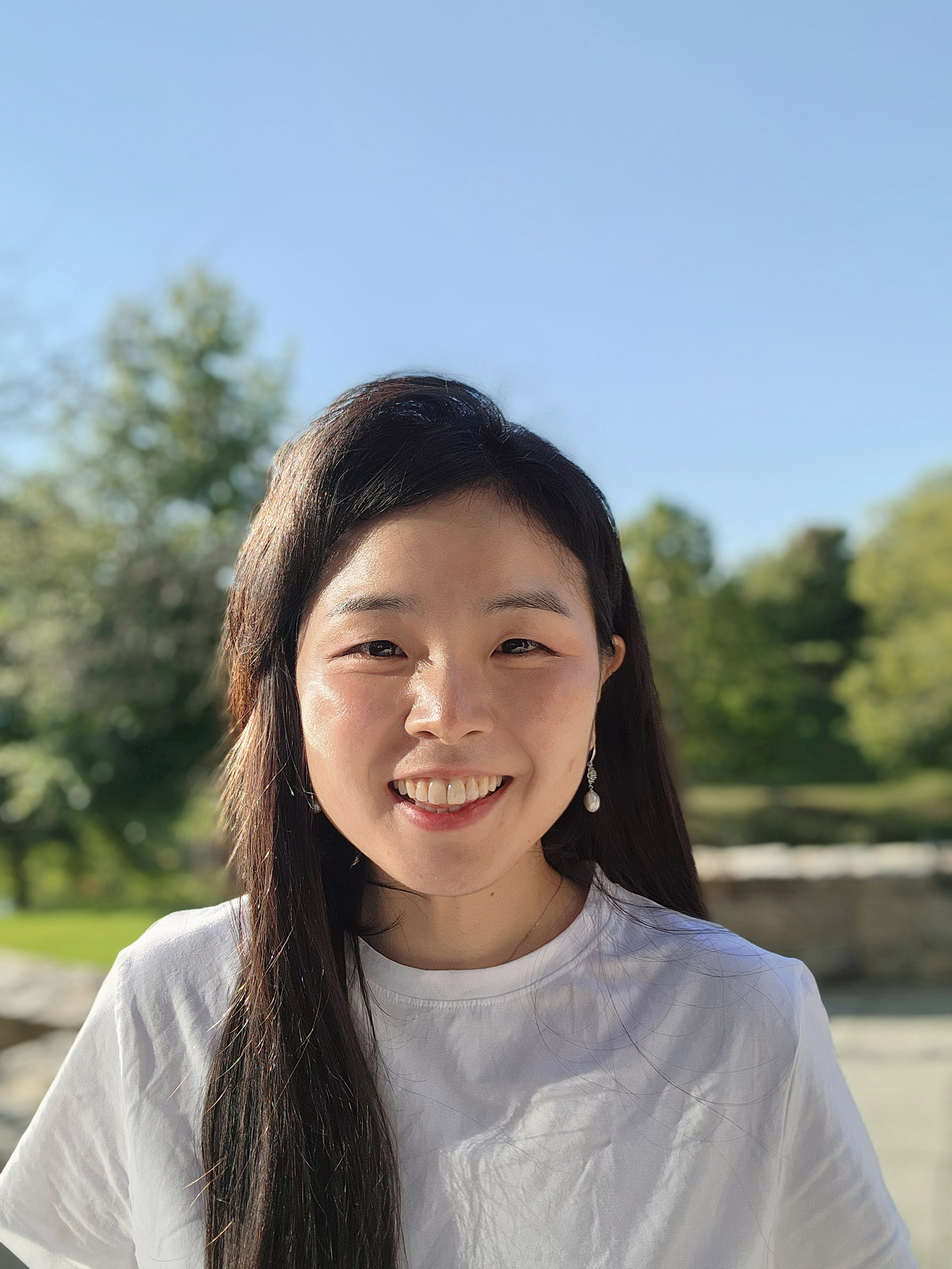
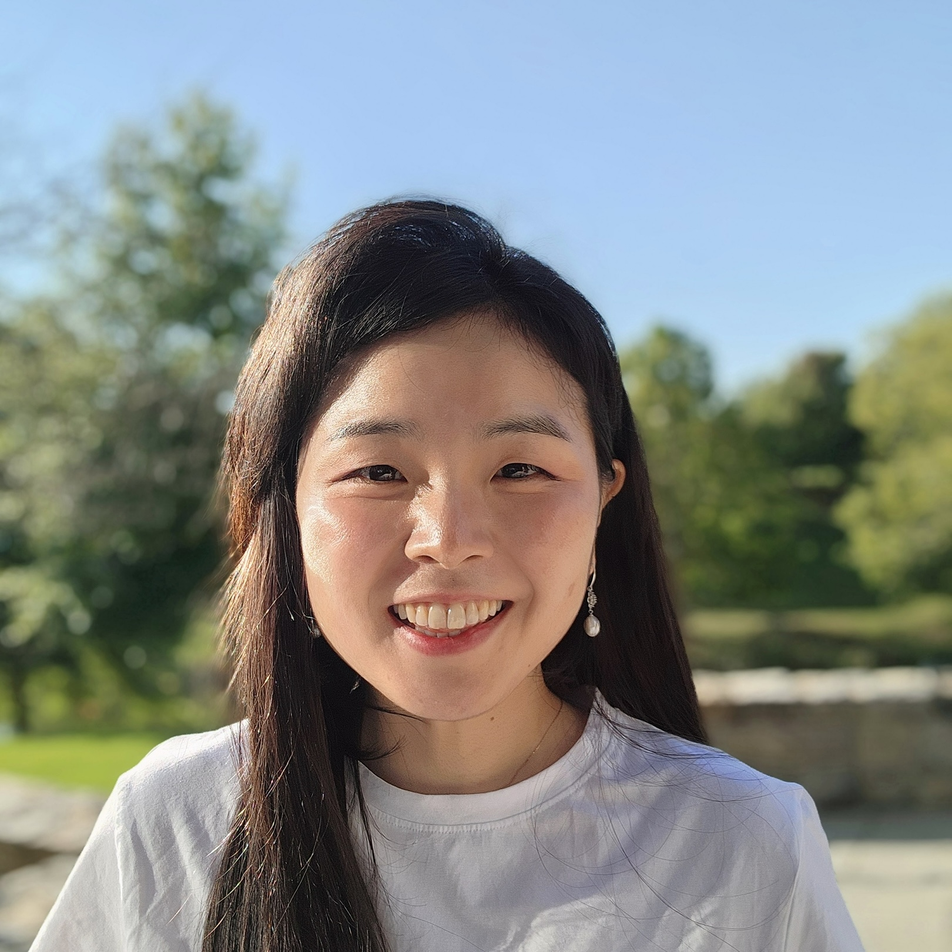
cropping profile picture square for aspect ratio contraints

diff --git a/_pages/home.md b/_pages/home.md
@@ -13,7 +13,7 @@ scholar_userid: jFXHPvoAAAAJ
 
 <div class='rho-profile-header'>
     <div class='rho-profile-img'>
-        <img src='/assets/images/team/headshot_oct2024.jpg' alt='Eugenia Rho Professional Headshot'/>
+        <img src='/assets/images/team/headshot_oct2024_crop.jpg' alt='Eugenia Rho Professional Headshot'/>
         <p>Gilbert Place, 220 Gilbert Street, Blacksburg, VA, 24060</p>
         {% include social.html %}
     </div>
